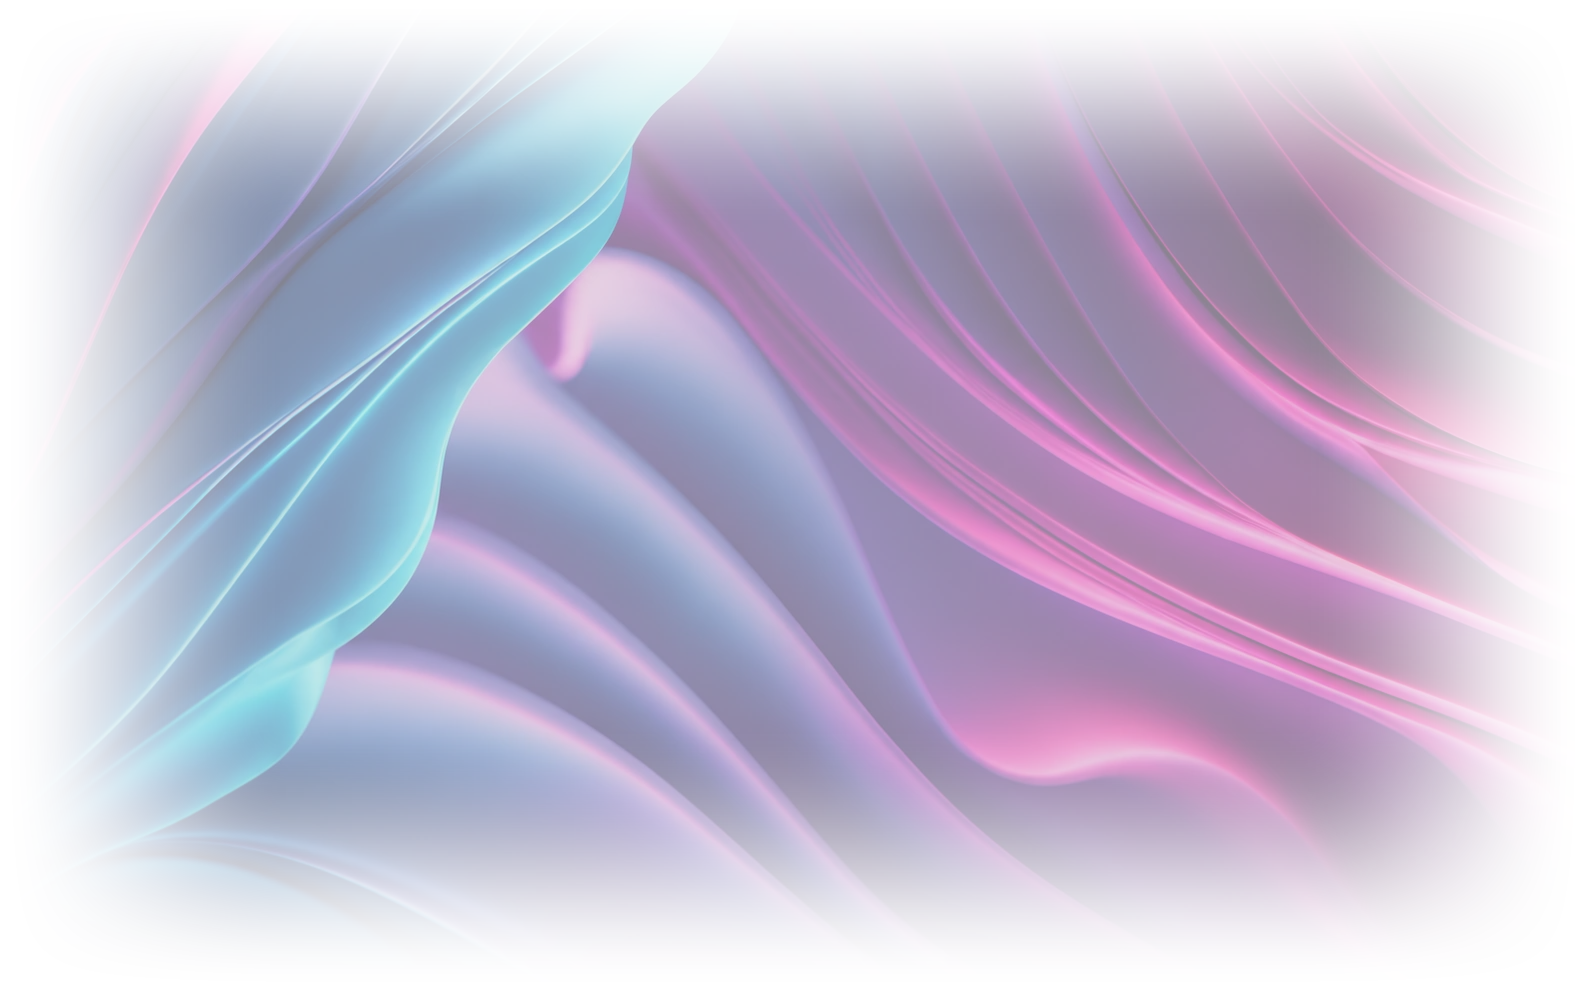
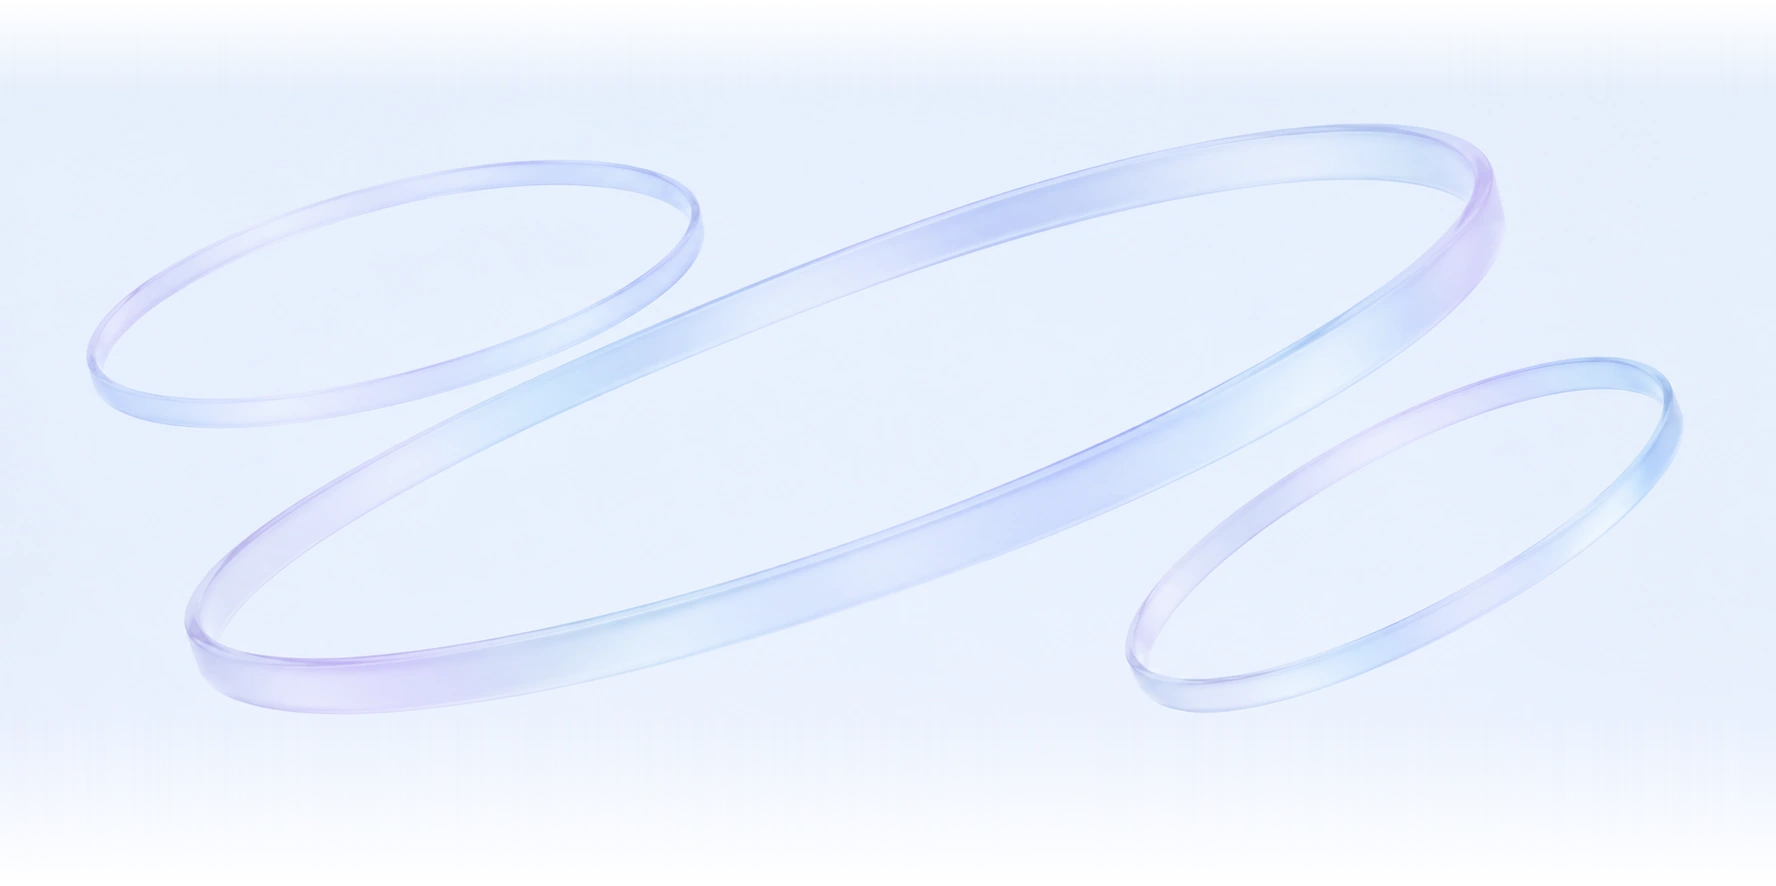
Use approved frosted rings for Experience hero

diff --git a/src/pages/experience.css b/src/pages/experience.css
@@ -1,9 +1,9 @@
 .modernization-hero.experience-hero {
-  background: linear-gradient(180deg, #e4edf9, #f8f9ff);
+  background: linear-gradient(180deg, #e4edfa, #eef1fc);
 }
 
 .modernization-hero.experience-hero::before {
-  inset: clamp(6.25rem, 11.5vw, 13rem) 2.5% clamp(1.2rem, 2vw, 2.625rem);
+  inset: 0;
   background: url('../assets/experience/hero.webp') center / contain no-repeat;
 }
 
